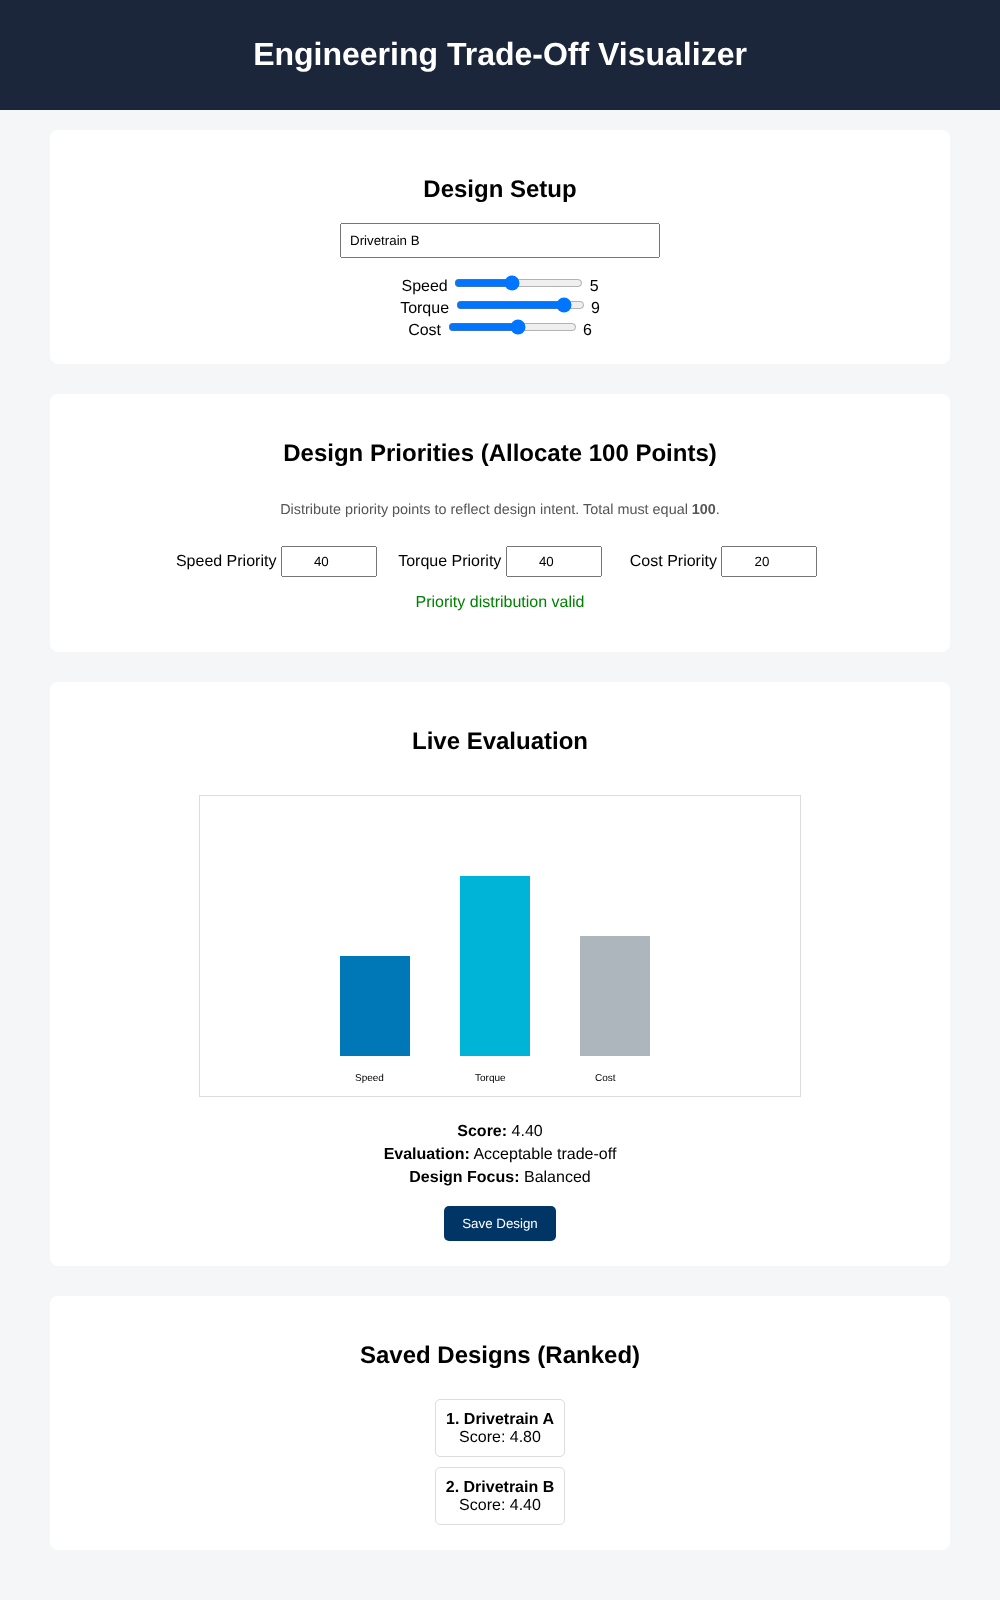
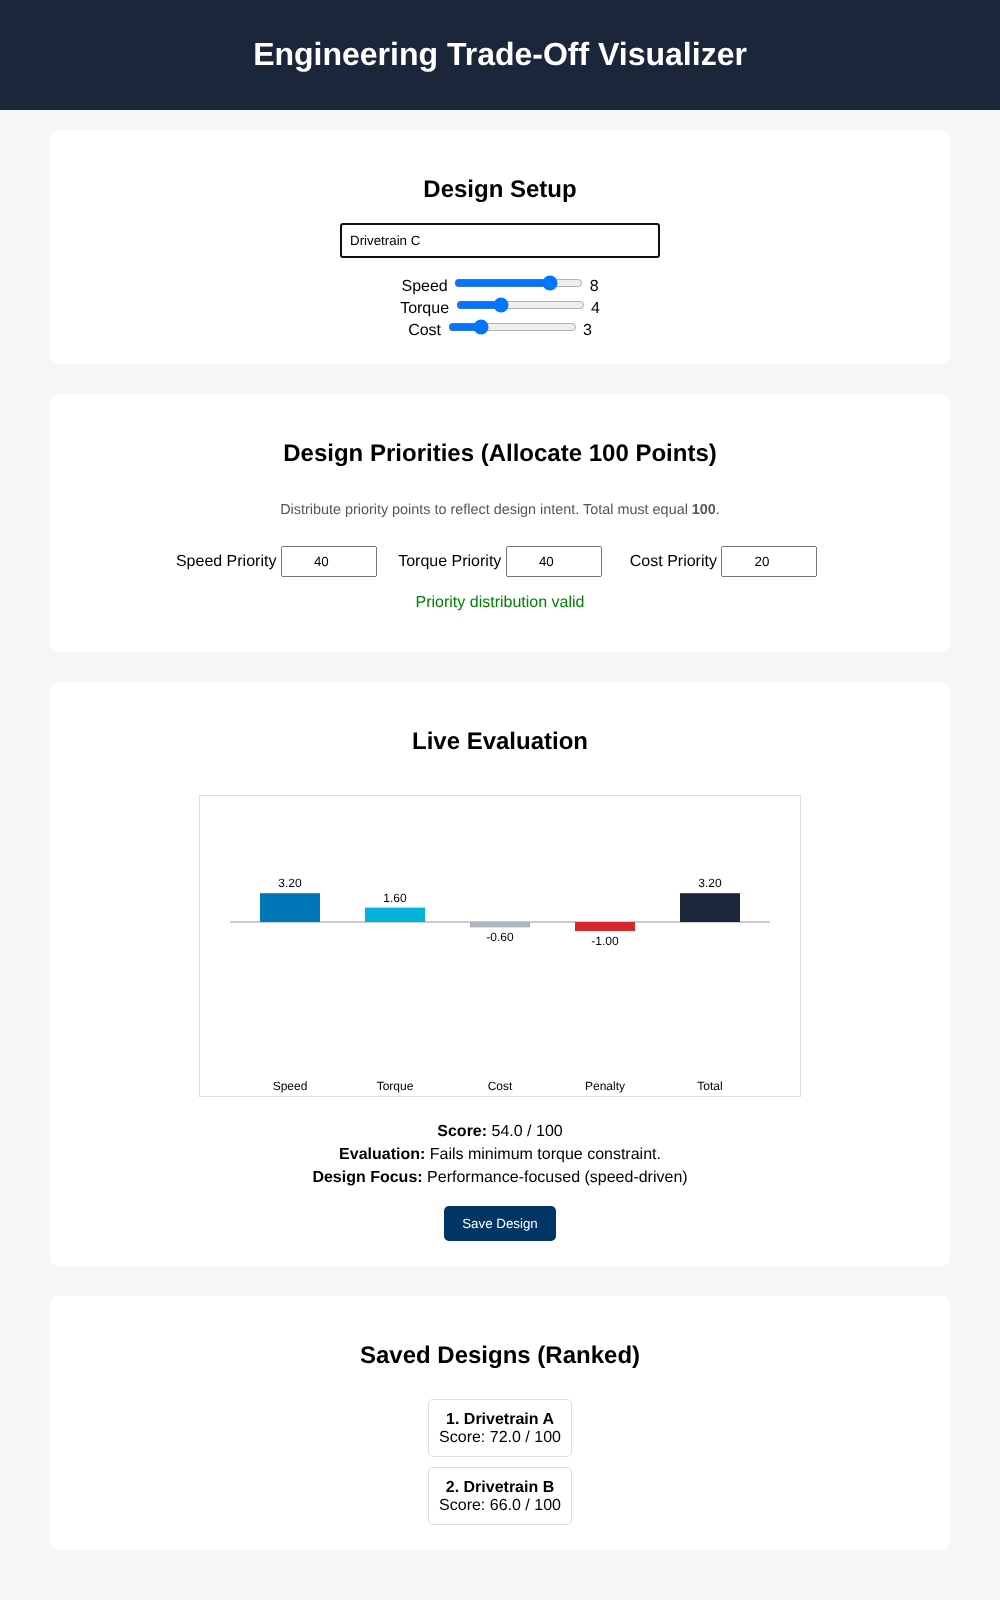
Update README and screenshot

diff --git a/README.md b/README.md
@@ -16,13 +16,21 @@ Use the link above, or download the repo and open index.html in a browser. Nothi
 
 ## How it works
 
-It's plain HTML, CSS and JavaScript. Every slider and priority box has an input listener that recalculates the score and redraws the bar chart on a canvas. The scoring is the same as the Python version: speed, torque and cost times their priority, with cost subtracted, and a one-point penalty if torque is under 5.
+It's plain HTML, CSS and JavaScript. Every slider and priority box has an input listener that recalculates the score and redraws the chart.
+
+The scoring is the same as the Python version. Speed and torque get multiplied by their priority, cost gets multiplied by its priority and subtracted, and there's a one-point penalty if torque is under 5. That raw total becomes a score out of 100, where 0 is the worst design possible with your priorities and 100 is the best. Design focus uses the same rule as the Python version too, so both give the same results for the same inputs.
+
+The chart shows how much speed, torque, cost and the penalty each add to or take away from the total. That way you can see why a design scored the way it did, not just the number.
+
+The priorities can be decimals, like 33.4, 33.3 and 33.3. The total just has to be within 0.01 of 100. The chart also resizes to fit a phone screen.
 
 Saved designs reset when you reload the page.
 
 ## What I learned
 
 This was my first time using DOM events, and my first time taking logic I wrote in Python and rebuilding it in JavaScript.
+
+I also found out that 33.4 + 33.3 + 33.3 isn't exactly 100 in JavaScript. It comes out as 99.99999999999999, which is why the first version rejected it. Another one: slider values are text, so "10" > "9" is false until you turn them into numbers.
 
 ## To do
 
